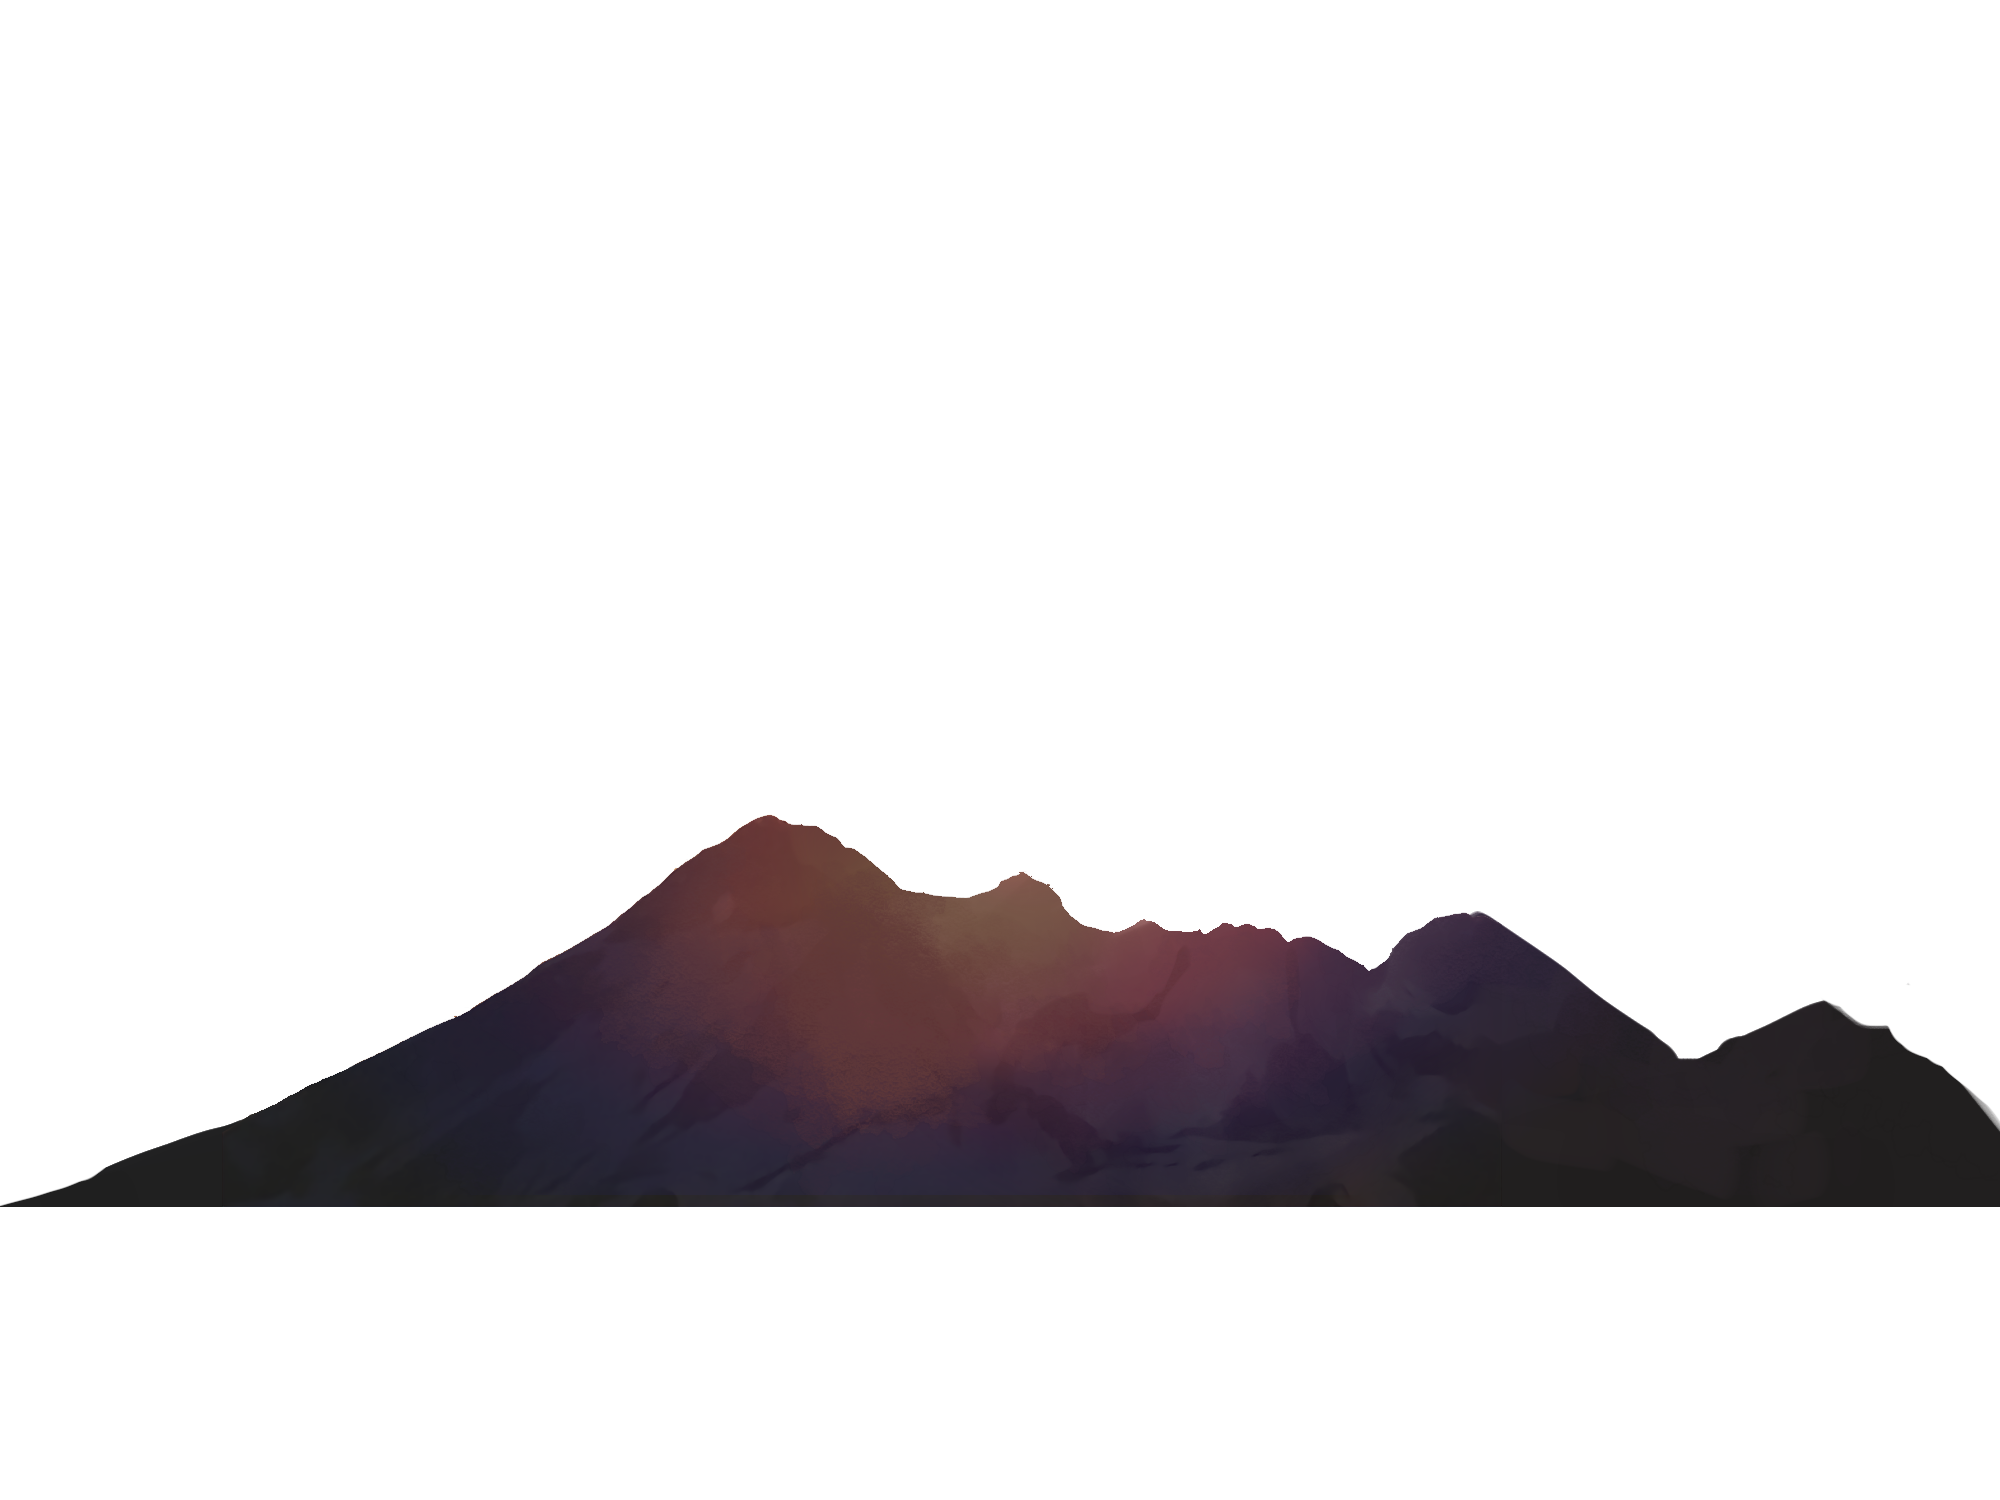
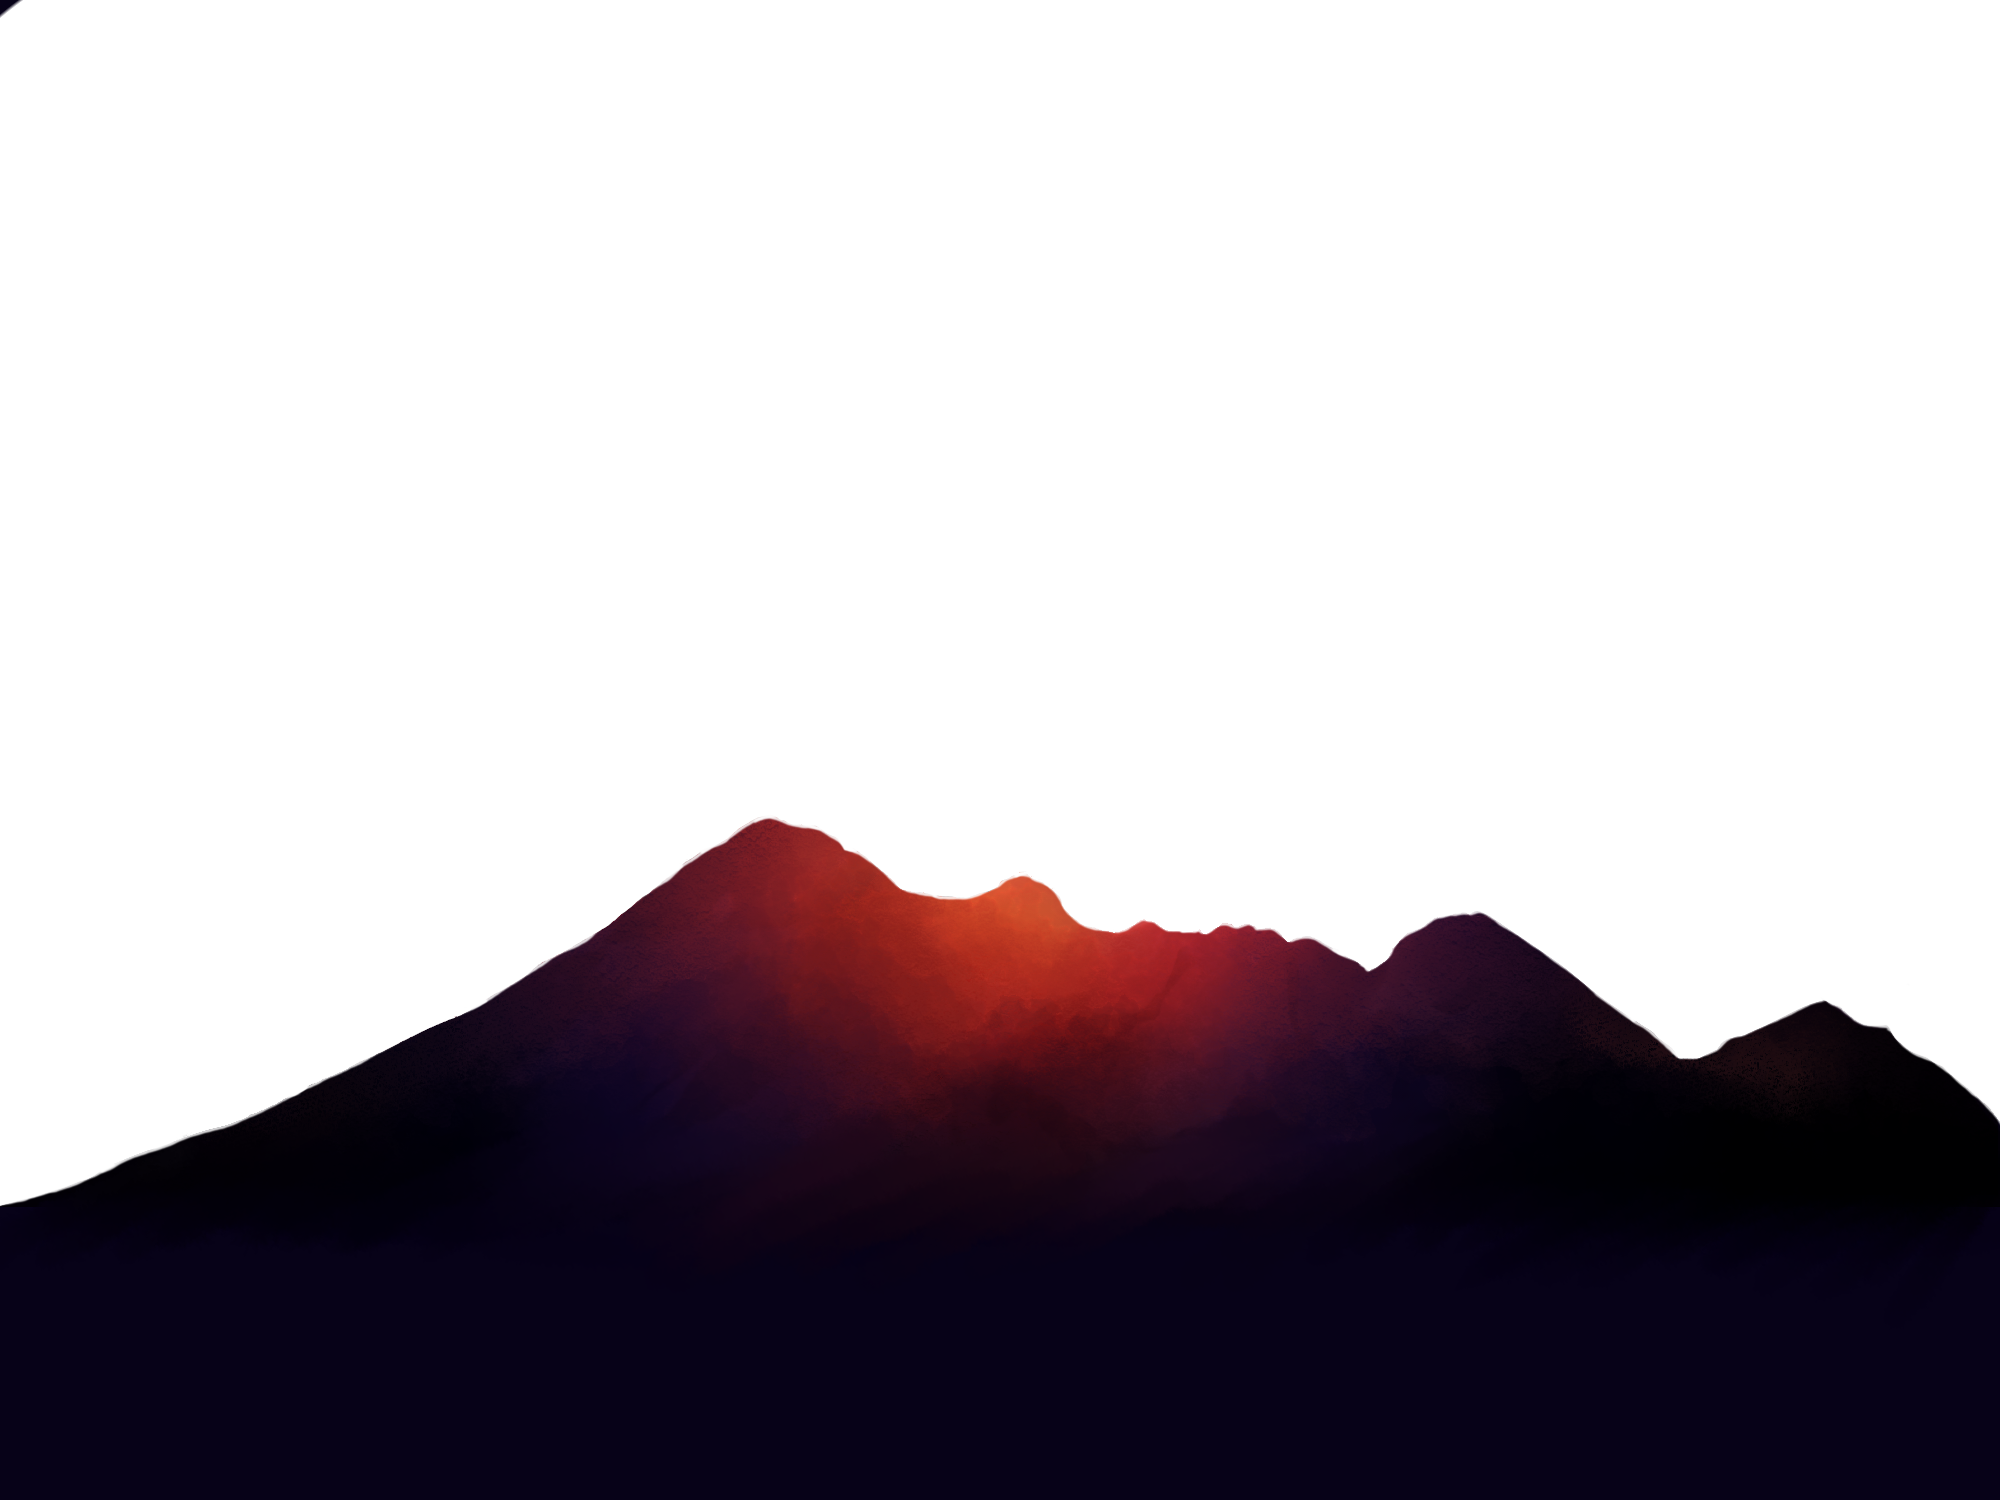
Tweaking parralax further and updated assets

diff --git a/src/containers/about.scss b/src/containers/about.scss
@@ -7,50 +7,13 @@
   @return unquote($value);
 }
 
-// @mixin mountain($size, $color, $translate, $scale) {
-@mixin mountain($size, $color) {
-  width: 0;
-  height: 0;
-  border-left: $size solid transparent;
-  border-right: $size solid transparent;
-  border-bottom: $size solid $color;
-
-  // -webkit-transform: translateZ($translate) scale($scale);
-  // transform: translateZ($translate) scale($scale);
-}
-
-$navbarHieght: 52px;
 $shadows-small:  multiple-box-shadow(350);
 $shadows-medium: multiple-box-shadow(100);
 $shadows-big:    multiple-box-shadow(50);
-$dark-purple: #0d061b;
-$mid-purple: #180e2c;
-$light-purple: #261d38;
-
-.background {
-    position: fixed;
-    top: 0;
-    width: 100vw;
-    height: 100vh;
-    background-size: cover;
-    background-position: center;
-    padding: 0 !important;
-    background-color: rgba(0, 0, 0, 0.6);
-    background-blend-mode: overlay;
-    background-image: url("../images/build.jpg");
-}
 
 .parallax {
-  -webkit-perspective: 100px;
-  perspective: 100px;
-  height: 150vh;
-  overflow-x: hidden;
-  overflow-y: auto;
-  position: absolute;
-  top: 0;
-  left: 0;
-  right: 0;
-  bottom: 0;
+  height: 80vh;
+  width: 100vw;
 }
 
 .parallax-layer {
@@ -62,18 +25,9 @@ $light-purple: #261d38;
 }
 
 .starsContainer {
-  z-index: -4;
-  position: fixed;
-  top: 0;
-  width: 100vw;
-  // background: radial-gradient(ellipse at bottom, #60290c 0%, #1c110b 40%, #0d061b 80%, #05000e 90%);
-  overflow: hidden;
   background-size: cover;
   background-position: center;
   background-image: url("../images/landing_bg.png");
-
-  -webkit-transform: translateZ(-500px) scale(6);
-  transform: translateZ(-500px) scale(6);
 
   .stars {
     width: 1px;
@@ -137,19 +91,15 @@ $light-purple: #261d38;
 }
 
 .moon {
-  z-index: -1;
   background: #c4c4c4;
-  height: 10em;
-  width: 10em;
+  height: 20em;
+  width: 20em;
   border-radius: 50%;
-  left: calc(-100% - 200px);
-  top: -500px;
+  left: 14%;
+  top: 20%;
   filter: drop-shadow(0px 0px 125px #a5a5a5);
   // box-shadow: 0 0 5px 0.6em rgba(255, 255, 255, 0.07),
     // 0 0 7px 1.2em rgba(255, 255, 255, 0.05), 0 0 8px 1.8em rgba(255, 255, 255, 0.02);
-    
-  -webkit-transform: translateZ(-400px) scale(13);
-  transform: translateZ(-400px) scale(13);
 
   &:after {
     position: absolute;
@@ -158,23 +108,19 @@ $light-purple: #261d38;
     height: 0.9em;
     width: 0.9em;
     border-radius: 50%;
-    top: 3.75em;
-    left: 1.25em;
+    top: 6.75em;
+    left: 5.25em;
     box-shadow: 0.9em -2.1em 0 0.2em #e6e6e6, 1.5em -0.3em 0 -0.06em #e6e6e6;
   }
 }
 
 .title {
-  z-index: -2;
-  top: 20%;
-  right: 10%;
+  top: 30%;
+  right: 0;
 
   color: rgb(207, 202, 195);
-  text-align: right;
+  text-align: center;
   letter-spacing: 7px;
-
-  -webkit-transform: translateZ(-300px) scale(4);
-  transform: translateZ(-300px) scale(4);
 
   span {
     background: -webkit-linear-gradient(white, #38495a);
@@ -183,129 +129,52 @@ $light-purple: #261d38;
   }
 }
 
-// .mountainsContainer {
-//   z-index: -1;
-//   display: flex;
-// 	align-items: flex-end;
-// 	justify-content: center;
-// 	height: 100vh;
-// 	overflow: hidden;
-//   position: relative;
-
-//   -webkit-transform: translateZ(-100px) scale(2);
-//   transform: translateZ(-100px) scale(2);
-
-//   .mountain1 {
-//     @include mountain(35vh, $mid-purple);
-//     &:before,
-//     &:after {
-//       content: "";
-//       position: absolute;
-//       bottom: 0;
-//     }
-//     &:before {
-//       left: 0;
-//       // @include mountain(25vh, $dark-purple, -500px, 1);
-//       @include mountain(25vh, $dark-purple);
-//     }
-//     &:after {
-//       right: 0;
-//       @include mountain(25vh, $dark-purple);
-//     }
-//   }
-// }
-
-// .floor {
-//   z-index: 0;
-//   display: flex;
-//   align-items: flex-end;
-//   justify-content: center;
-//   height: 100vh;
-//   overflow: hidden;
-//   position: relative;
-//   margin-top: 50vh;
-  
-//   // background-repeat: no-repeat;
-//   // background-size: contain;
-//   // background-position: top;
-//   // background-image: url("../images/foreground_mountains.png")
-
-//   padding: 0 !important;
-//   background: #1F072A;
-
-//   -webkit-transform: translateZ(-100px) scale(2);
-//   transform: translateZ(-100px) scale(2);
-
-//   &:after {
-//     position: absolute;
-//     content: " ";
-//     top: 0;
-//     left: 0;
-//     width: 100%;
-//     height: 100%;
-//     z-index: 10;
-//     background-color: rgba($mid-purple, 0.5);
-//   }
-// }
-
-
 .mountain_background {
-  z-index: -3;
-  display: flex;
-	align-items: flex-end;
-	justify-content: center;
 	height: 100vh;
-	overflow: hidden;
-  position: relative;
-
   background-repeat: no-repeat;
   background-size: cover;
   background-position: center;
   background-image: url("../images/background_mountains.png");
-
-  -webkit-transform: translateZ(-100px) scale(3);
-  transform: translateZ(-100px) scale(3);
 }
 
 .painter {
-  z-index: -2;
 	height: 100vh;
-	overflow: hidden;
+  top: 3vh;
+
   background-repeat: no-repeat;
   background-size: cover;
   background-position: center;
   background-image: url("../images/painter.png");
-  margin-top: -100px;
-
-  -webkit-transform: translateZ(-200px) scale(3);
-  transform: translateZ(-200px) scale(3);
 }
 
 .mountain_foreground {
-  z-index: 1;
 	height: 100vh;
-	overflow: hidden;
+  margin-top: -100vh;
 
   background-repeat: no-repeat;
   background-size: cover;
   background-position: center;
   background-image: url("../images/foreground_mountains.png");
-
-  -webkit-transform: translateZ(-100px) scale(2);
-  transform: translateZ(-100px) scale(2);
 }
 
 .floor {
-  z-index: 1;
   display: flex;
   align-items: flex-end;
-  justify-content: center;
   height: 100vh;
-  overflow: hidden;
   position: relative;
-  margin-top: 90vh;
   padding: 0 !important;
   background: #1F072A;
-  padding: 0 !important;
-  background: #1F072A;
+}
+
+@media (min-width: 768px) { 
+  .title {
+    top: 20%;
+    right: 8%;
+    text-align: right;
+  }
+
+  .moon {
+    left: 10%;
+    top: 12%;
+  }
 }

diff --git a/src/containers/about.tsx b/src/containers/about.tsx
@@ -1,6 +1,5 @@
 import React from "react";
-import { Image } from "react-bootstrap";
-
+import { Parallax, ParallaxLayer } from "@react-spring/parallax";
 // import * as Dream from "../images/dream.jpg";
 // import * as mountain from "../images/mountains.png";
 
@@ -8,74 +7,46 @@ import "./about.scss";
 
 const About = () => {
   return (
-    <header style={{ paddingLeft: 0 }}>
-      {/* <div className="p-5 text-center bg-image background">
-        <div className="d-flex justify-content-center align-items-center h-100">
-          <div className="text-white">
-            <h1 className="mb-3">Explore the possibilities</h1>
-            <h4 className="mb-3">Creative Development</h4>
-            <a className="btn btn-outline-light btn-lg" href="#!" role="button">
-              Get in touch
-            </a>
-          </div>
-        </div>
-      </div> */}
+    <>
+      <div className="parallax" style={{ paddingLeft: 0 }}>
+        <Parallax pages={2} style={{ top: "0", left: "0" }}>
+          <ParallaxLayer offset={0} speed={0} className="starsContainer">
+            <div className="stars"></div>
+            <div className="stars2"></div>
+            <div className="stars3"></div>
+          </ParallaxLayer>
 
-      {/* <div className="parallax">
-        <div className="starsContainer parallax-layer">
-          <div className="stars"></div>
-          <div className="stars2"></div>
-          <div className="stars3"></div>
-        </div>
-        <div className="moon parallax-layer" />
-        <div className="title parallax-layer">
-          <div className="text-white">
-            <h1 className="mb-3">Explore the possibilities</h1>
-            <h2 className="mb-3">Creative Development</h2>
-            <a
-              className="btn pt-10 mt-5 btn-outline-light btn-lg"
-              href="#!"
-              role="button"
-            >
-              Get in touch
-            </a>
-          </div>
-        </div>
-        <div className="mountainsContainer parallax-layer">
-          <div className="mountain1" />
-          <div className="mountain2" />
-          <div className="mountain2" />
-        </div>
-        <div className="floor" />
-      </div> */}
-
-      <div className="parallax">
-        <div className="starsContainer parallax-layer">
-          <div className="stars"></div>
-          <div className="stars2"></div>
-          <div className="stars3"></div>
-        </div>
-        <div className="mountain_background parallax-layer" />
-        <div className="moon parallax-layer" />
-        <div className="title parallax-layer">
-          <div className="text-white">
-            <h1 className="mb-3">Explore the possibilities</h1>
-            <h2 className="mb-3">Creative Development</h2>
-            <a
-              className="btn pt-10 mt-5 btn-outline-light btn-lg"
-              href="#!"
-              role="button"
-            >
-              Get in touch
-            </a>
-          </div>
-        </div>
-        <div className="painter parallax-layer" />
-        <div className="mountain_foreground parallax-layer" />
+          <ParallaxLayer offset={0} speed={-0.1}>
+            <div className="mountain_background parallax-layer" />
+          </ParallaxLayer>
+          <ParallaxLayer offset={0} speed={-0.1}>
+            <div className="moon parallax-layer" />
+            <div className="title parallax-layer">
+              <div className="text-white">
+                <h1 className="mb-3">Explore the possibilities</h1>
+                <h2 className="mb-3">Creative Development</h2>
+                <a
+                  className="btn pt-10 mt-5 btn-outline-light btn-lg"
+                  href="#!"
+                  role="button"
+                >
+                  Get in touch
+                </a>
+              </div>
+            </div>
+          </ParallaxLayer>
+          <ParallaxLayer offset={0} speed={0.05}>
+            <div className="painter parallax-layer" />
+          </ParallaxLayer>
+          <ParallaxLayer offset={1} speed={0}>
+            <div className="mountain_foreground parallax-layer" />
+          </ParallaxLayer>
+          <ParallaxLayer offset={1} speed={0}>
+            <div className="floor" />
+          </ParallaxLayer>
+        </Parallax>
       </div>
-
-      <div className="floor" />
-    </header>
+    </>
   );
 };
 
